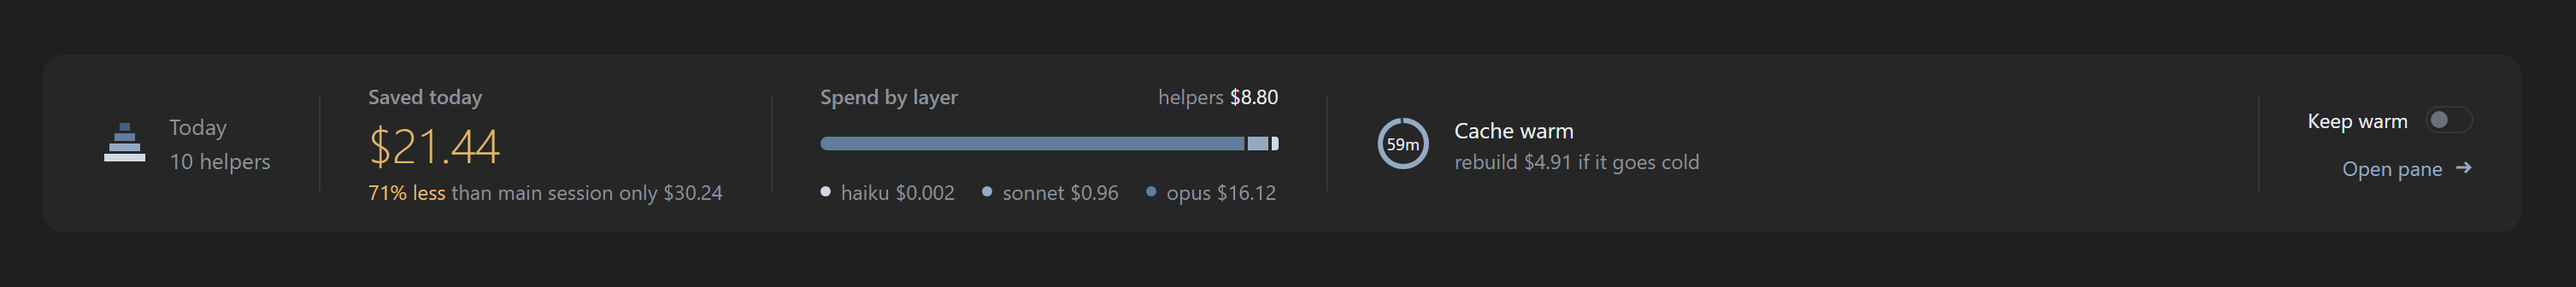
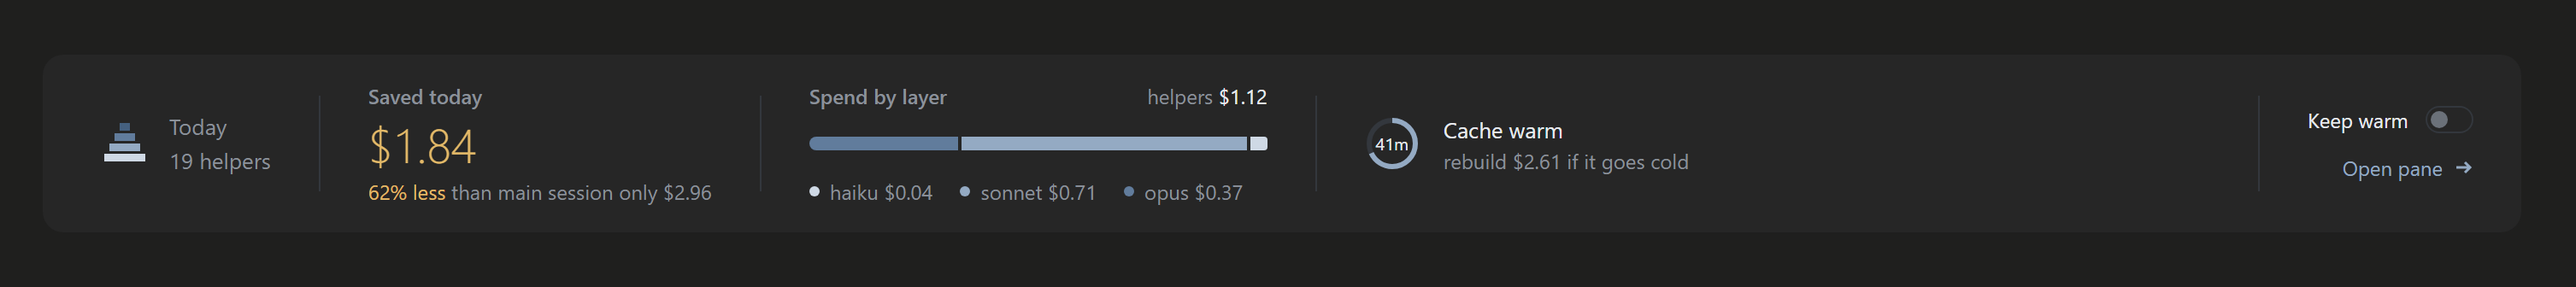
claude-tier docs: requirements, removal and privacy; clearer installer messages; marketplace metadata
- README: a Requirements, removal, privacy section; the Measured table gains the Sonnet bug-hunt row
- guide and mod README: one version sentence, the userConfig note, an older-CLI troubleshooting entry
- installers name the old terminal claude when they skip the mod, and say so in the final line
- marketplace: a plain description, homepage, license and keywords per plugin (versions and pins unchanged)
- .gitattributes keeps install.sh LF
- hover-strip and refusals images re-rendered so every image tells the same story

diff --git a/docs/claude-tier/README.md b/docs/claude-tier/README.md
@@ -106,8 +106,9 @@ plugin route is still blocked it falls back to copying the skill directly
 into `~/.claude/skills/` - no git needed at all. It changes nothing outside
 its job: your git config and shell session are left exactly as found. Safe to
 re-run any time; it updates an existing install. It then adds the Tier mod
-on Claude Code 2.1.308 or newer; if that step fails or is skipped, it prints
-the manual command and the rule install still counts as done.
+(it checks the version first, see [The Tier mod](#the-tier-mod)); if that step
+fails or is skipped, it prints the manual command and the rule install still
+counts as done.
 
 ### 2. Already have Claude Code? Two commands, plus one for the mod
 
@@ -219,6 +220,10 @@ manual fixes if you're doing it by hand.
   and retry. The repo is public - HTTPS needs no credentials. (Since 1.6.0
   the plugin itself ships as a zip over HTTPS, so git only comes into play
   when the marketplace was added in `owner/repo` form.)
+- **The mod shows as "failed to load" in the terminal** - an older terminal
+  `claude` rejects the newer manifest. Update that CLI with `claude update`;
+  the desktop app is unaffected if it is 2.1.308 or newer. Check with
+  `claude --version`.
 - **`This plugin uses a source type your Claude Code version does not
   support`** - zip-archive plugins need Claude Code v2.1.224+. Update Claude
   Code (`claude update`) and retry.
@@ -227,9 +232,8 @@ manual fixes if you're doing it by hand.
 
 The rule asks the model to route well. The mod checks that it did. It is a
 separate plugin, `tier-mod@claude-tier`, built on the Claude Code mod API,
-which is early access and may change between releases. It was built and
-tested on Claude Code 2.1.308. The installers skip it on older versions and
-print the manual command instead.
+which is early access and may change between releases. The mod needs Claude Code 2.1.308 or newer. The installers check this; a manual plugin install does not. The
+installers skip it on older versions and print the manual command instead.
 
 ### What it enforces
 
@@ -284,7 +288,8 @@ list-price equivalent, not money back.
 
 ### Settings
 
-Set these in the plugin's `userConfig` (the plugin settings in Claude Code):
+Set these in the plugin's `userConfig` (the plugin settings in Claude Code).
+Claude Code may print '5 userConfig options not yet set' after install. Ignore it: every setting has a default and the mod works unconfigured. To change one, run /plugin configure tier-mod@claude-tier.
 
 | Setting | Default | What it does |
 | --- | --- | --- |
@@ -306,7 +311,8 @@ Set these in the plugin's `userConfig` (the plugin settings in Claude Code):
 ### When it breaks
 
 The mod writes its health to `~/.claude/tier-mod-status.json`: which parts
-loaded, and any errors, per session. If a part fails to load, the footer
+loaded, and any errors, per session. The ledger lives in Claude Code's plugin
+store under `~/.claude/plugins`, not in that file. If a part fails to load, the footer
 shows a red chip and a notice once per part. A broken part fails open:
 your session carries on without it. Attach that file to a
 [bug report](https://github.com/thephenyl02-creator/claude-codex-tier/issues/new?template=bug_report.yml).

diff --git a/README.md b/README.md
@@ -65,6 +65,21 @@ Then, in any project, run `/tier`. The rule lands in a machine-local
 optional. It runs in the desktop app, the terminal and VS Code, and was built
 on Claude Code 2.1.308.
 
+### Requirements, removal, privacy
+
+The rule works in any Claude Code. The mod needs Claude Code 2.1.308 or newer
+in every Claude Code you use: the desktop app and the terminal `claude`, which
+can be older than the app (check with `claude --version`).
+
+To remove it, run `claude plugin uninstall tier-mod@claude-tier` and
+`claude plugin uninstall tier@claude-tier`, then delete the
+`<!-- tier-rule ... -->` block from `CLAUDE.local.md` / `CLAUDE.md`.
+
+What the mod writes: the ledger and its switches live in Claude Code's plugin
+store under `~/.claude/plugins`, plus a status file at
+`~/.claude/tier-mod-status.json`. What it sends: nothing leaves your machine
+except keep-warm pings, which are ordinary model requests on your own account.
+
 ### What you see
 
 These images are rendered from the design file. The figures in them are
@@ -104,7 +119,8 @@ a ledger, and the footer, strip and pane read from it.
 
 | What | Result | n |
 | --- | --- | --- |
-| Opus 5.5 quality at every effort | no misses | 429 graded runs, 3 models x 5 efforts (2026-10-24) |
+| Opus 5.5 quality at every effort | no misses | part of 429 graded runs (3 models x 5 efforts, 3 tasks, at least 5 runs per setting, 2026-10-24) |
+| Sonnet 5.5 on a silent bug hunt | one miss each at low and medium, clean from high | same runs |
 | Sonnet/high vs Opus/low, cost per run | about 0.7x at equal quality | 3 tasks |
 | Helper boot, listed tools vs every tool | ~10K vs ~55K tokens | one machine (2026-10-24) |
 | Model switch mid-session | 20x the cost of the same turn | one turn plus a control, on Opus 5 |

diff --git a/plugins/tier-mod/README.md b/plugins/tier-mod/README.md
@@ -12,8 +12,7 @@ claude plugin install tier-mod@claude-tier
 ```
 
 Runs in the desktop app, the terminal and VS Code. The mod is built on the Claude Code mod API, which
-is early access and may change between releases. It was built and tested on Claude Code 2.1.308; the
-manifest has no minimum-version field, so use that version or newer.
+is early access and may change between releases. The mod needs Claude Code 2.1.308 or newer. The installers check this; a manual plugin install does not.
 
 ## What it does
 
@@ -29,11 +28,11 @@ manifest has no minimum-version field, so use that version or newer.
 
 ## Settings
 
-`userConfig` in `.claude-plugin/plugin.json`:
+`userConfig` in `.claude-plugin/plugin.json`. Claude Code may print '5 userConfig options not yet set' after install. Ignore it: every setting has a default and the mod works unconfigured. To change one, run /plugin configure tier-mod@claude-tier.
 
 | Setting | Default | Meaning |
 | --- | --- | --- |
-| `enforce` | `true` | On refuses what the limits catch; off only records. |
+| `enforce` | `true` | `true` blocks calls over the limits; `false` only logs them. |
 | `readTokens` | `8000` | Inline reading allowance per user message. |
 | `readLines` | `300` | Files this long or longer need a line range. |
 | `editFiles` | `2` | Inline edited files per user message. |
